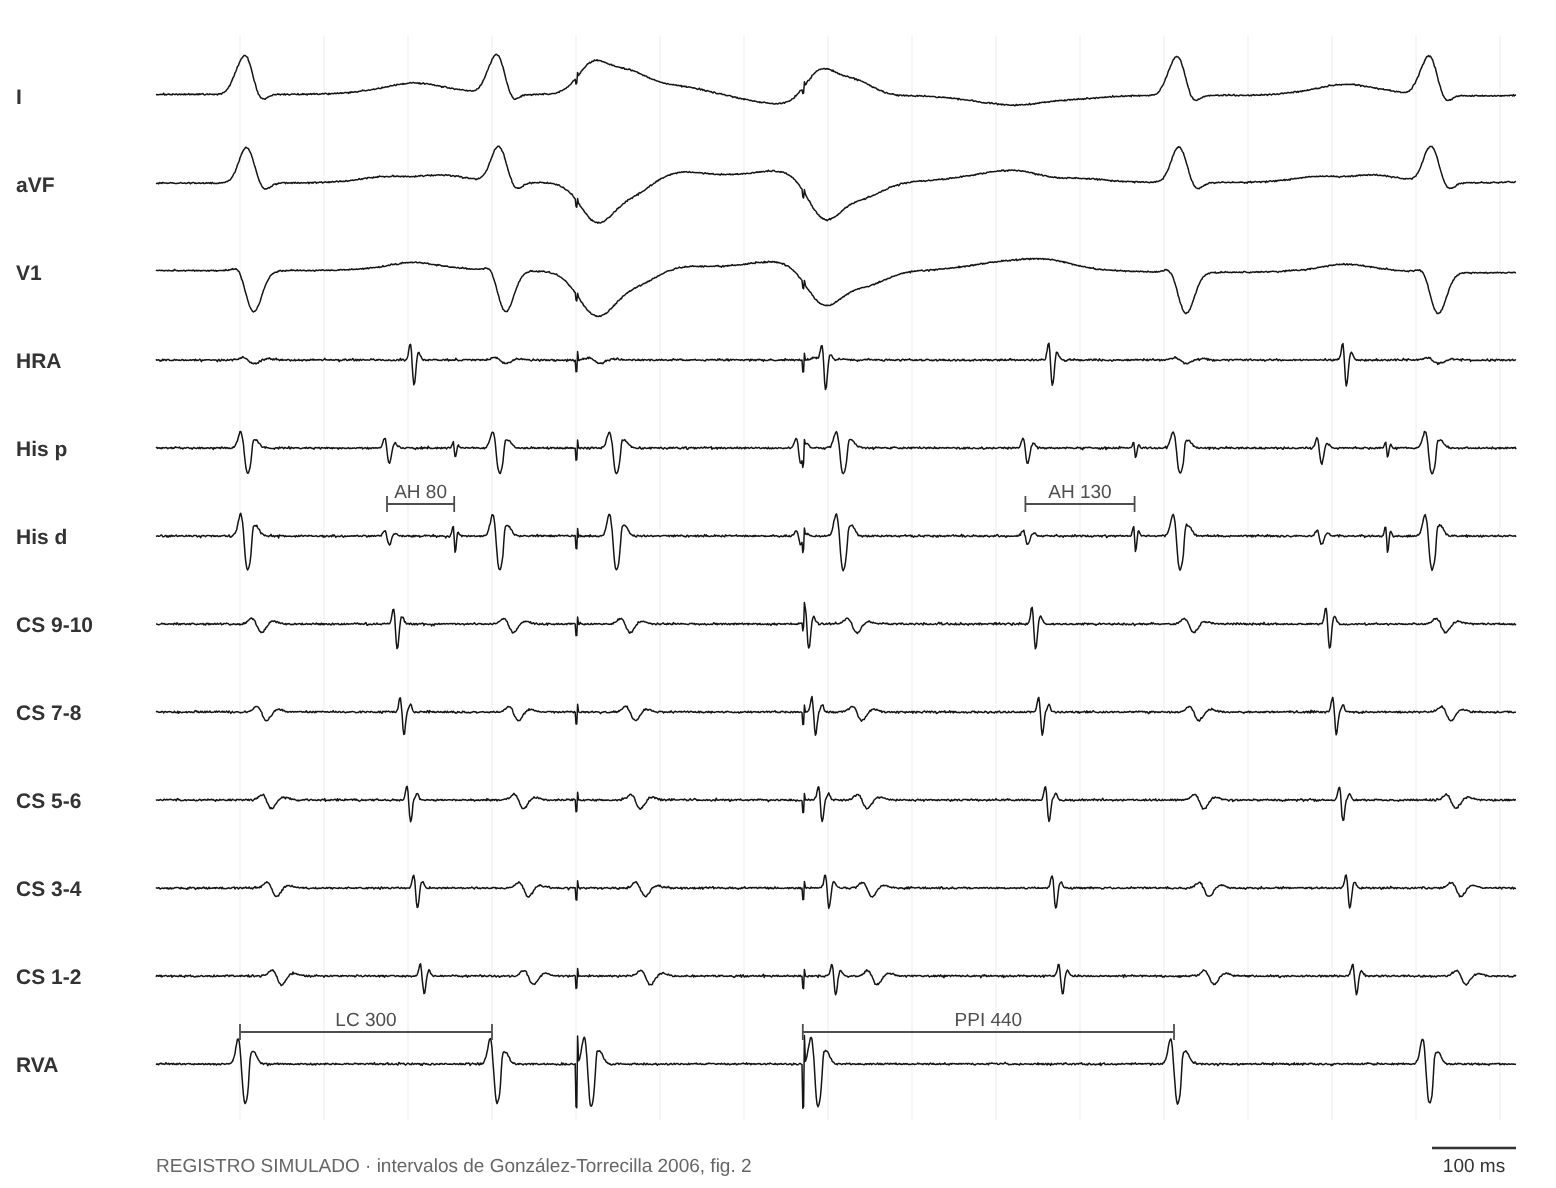
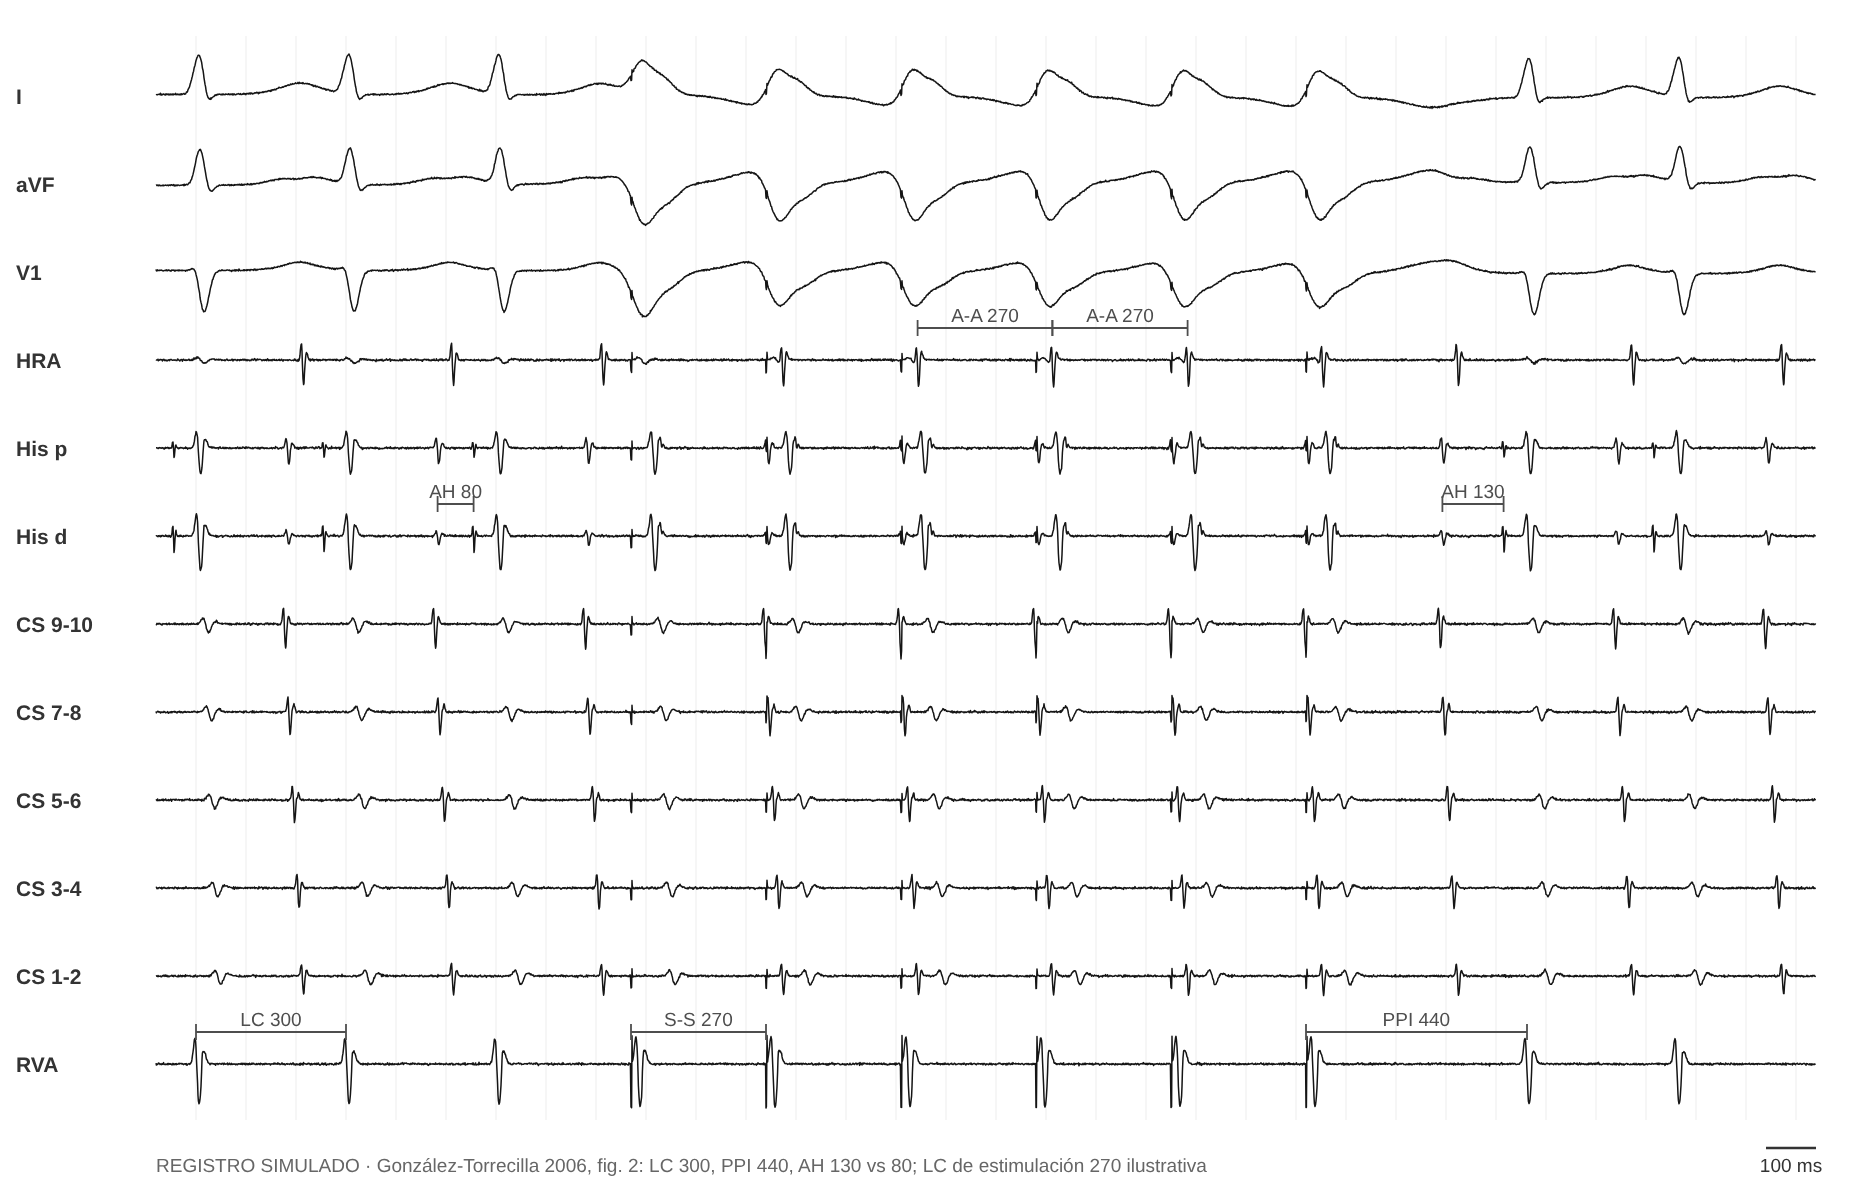
González-Torrecilla 2006: encarrilamiento de 6 latidos con A-A, LC, PPI y AH
Claude-Session: https://claude.ai/code/session_01Pw5rjt62KK5LeJZoEyFiaM

diff --git a/sw.js b/sw.js
@@ -1,6 +1,6 @@
 // Permite instalar la app y abrirla sin conexión. Primero la red (siempre lo último publicado); si no hay, la copia.
 // Si cambiás un archivo, subí CACHE_VERSION.
-const CACHE_VERSION = 'mef-v32';
+const CACHE_VERSION = 'mef-v33';
 const ARCHIVOS = ['./', './index.html', './manifest.json', './iconos/icon-192.png', './iconos/icon-512.png'];
 self.addEventListener('install', e => e.waitUntil(caches.open(CACHE_VERSION).then(c => c.addAll(ARCHIVOS)).then(() => self.skipWaiting())));
 self.addEventListener('activate', e => e.waitUntil(caches.keys().then(ks => Promise.all(ks.filter(k => k !== CACHE_VERSION).map(k => caches.delete(k)))).then(() => self.clients.claim())));

diff --git a/herramientas/simulador/cases.py b/herramientas/simulador/cases.py
@@ -33,17 +33,21 @@ S['veen11_pseudo'] = dict(win=(-100, after[-1] + 330), pxms=0.25, title='Encarri
          (A[4] + 38, A[5] + 38, 'HRA', 'A-A 360'), (A[5] + 38, A[6] + 38, 'HRA', 'A-A 360')],
     marks=[(A[-2] + 38, 'CS 9-10', 'A₁'), (A[-1] + 38, 'CS 9-10', 'A₂')])
 
-# 3. González-Torrecilla 2006: PPI corregido (TRAV), LC 300, PPI 440, AH 130 vs 80
-svt = [0, 300]; sp = [400, 670]
-A_svt = [v + 175 for v in svt[:1]] + []
-A = [175, 665, 935]
-ret = sp[-1] + 440; after = [ret, ret + 300]
-S['gt06'] = dict(win=(-100, 1520), pxms=0.42, src='intervalos de González-Torrecilla 2006, fig. 2',
+# 3. González-Torrecilla 2006: PPI corregido (TRAV). Publicados: LC 300, PPI 440, AH 130 (1.er retorno) vs 80 (TSV).
+#    Encarrilamiento desde el ápex con 6 estímulos; la LC de estimulación (270) es ilustrativa. VA 175 (TSV) y SA 265 resultan de lo anterior.
+LC, VA, AHt, AHr, PPI, SC = 300, 175, 80, 130, 440, 270
+svt = [i * LC for i in range(3)]
+sp = [svt[-1] + SC + SC * i for i in range(6)]
+A = [v + VA for v in svt] + [s + (PPI - HV - AHr) for s in sp]
+ret = sp[-1] + PPI; after = [ret, ret + LC]
+S['gt06'] = dict(win=(-80, after[-1] + 280), pxms=0.25,
+    src='González-Torrecilla 2006, fig. 2: LC 300, PPI 440, AH 130 vs 80; LC de estimulación 270 ilustrativa',
     beats=[(v, 'n') for v in svt + after] + [(s, 'pa') for s in sp], spikes=sp,
-    atr=[(a, 'conc_his', -1) for a in A + [ret + 175]],
-    h_ante=[300 - HV, ret - HV, ret + 300 - HV], h_retro=[],
-    cal=[(0, 300, 'RVA', 'LC 300'), (175, 300 - HV, 'His d', 'AH 80'), (935, ret - HV, 'His d', 'AH 130'),
-         (sp[-1], ret + 2, 'RVA', 'PPI 440')])
+    atr=[(a, 'conc_cs', -1) for a in A + [v + VA for v in after]],
+    h_ante=[v - HV for v in svt + after], h_retro=[s + 60 for s in sp],
+    cal=[(svt[0], svt[1], 'RVA', 'LC 300'), (sp[0], sp[1], 'RVA', 'S-S 270'), (sp[-1], ret + 2, 'RVA', 'PPI 440'),
+         (A[4] + 38, A[5] + 38, 'HRA', 'A-A 270'), (A[5] + 38, A[6] + 38, 'HRA', 'A-A 270'),
+         (A[1] + 8, svt[2] - HV, 'His d', 'AH 80'), (A[-1] + 8, ret - HV, 'His d', 'AH 130')])
 
 # 4. Miller 1991: ΔHA en TRAV posteroseptal (LC 340; HA 199 en TSV, 103 estimulando a la LC)
 svt = [0, 340, 680]; sp = [1250, 1590, 1930]

diff --git a/PENDIENTES.md b/PENDIENTES.md
@@ -15,7 +15,7 @@ En todos conviene mirar las amplitudes y la morfología del QRS, la visibilidad 
 - [ ] [ver](https://drsebastianmaldonado.github.io/Maniobras-EEF/figs/sim/knight99.png) **Knight 1999** (A-V vs A-A-V): publicados LC 430 y estimulación 370. VA 40, SA 190 (SA−VA 150) y PPI 600 (PPI−LC 170) son ilustrativos, iguales a los del caso 1 de práctica.
 - [ ] [ver](https://drsebastianmaldonado.github.io/Maniobras-EEF/figs/sim/veen11_pseudo.png) **Veenhuyzen 2011, fig. 3** (seudo A-A-V): encarrilamiento con 6 estímulos a 360, A-A 360, LC 380 y PPI 565; sin SA.
 - [ ] [ver](https://drsebastianmaldonado.github.io/Maniobras-EEF/figs/sim/veen11_fusion.png) **Veenhuyzen 2011, fig. 5** (fusión desde el VI): morfología del QRS de fusión y del His ortodrómico. También se usa en la ficha de conceptos de reset.
-- [ ] [ver](https://drsebastianmaldonado.github.io/Maniobras-EEF/figs/sim/gt06.png) **González-Torrecilla 2006** (PPI corregido).
+- [ ] [ver](https://drsebastianmaldonado.github.io/Maniobras-EEF/figs/sim/gt06.png) **González-Torrecilla 2006** (PPI corregido): rehecho; encarrilamiento con 6 estímulos a 270 (ilustrativo), A-A 270, LC 300, PPI 440, AH 80 y 130.
 - [ ] [ver](https://drsebastianmaldonado.github.io/Maniobras-EEF/figs/sim/miller91.png) **Miller 1991** (ΔHA): el momento del His retrógrado es ilustrativo; el HA 103 es publicado.
 - [ ] [ver](https://drsebastianmaldonado.github.io/Maniobras-EEF/figs/sim/ho15.png) **Ho 2015** (captura ortodrómica del His en la PJRT).
 - [ ] [ver](https://drsebastianmaldonado.github.io/Maniobras-EEF/figs/sim/arias10.png) **Arias 2010** (RP largo con valores de TRNAV): la LC de estimulación no está publicada.
